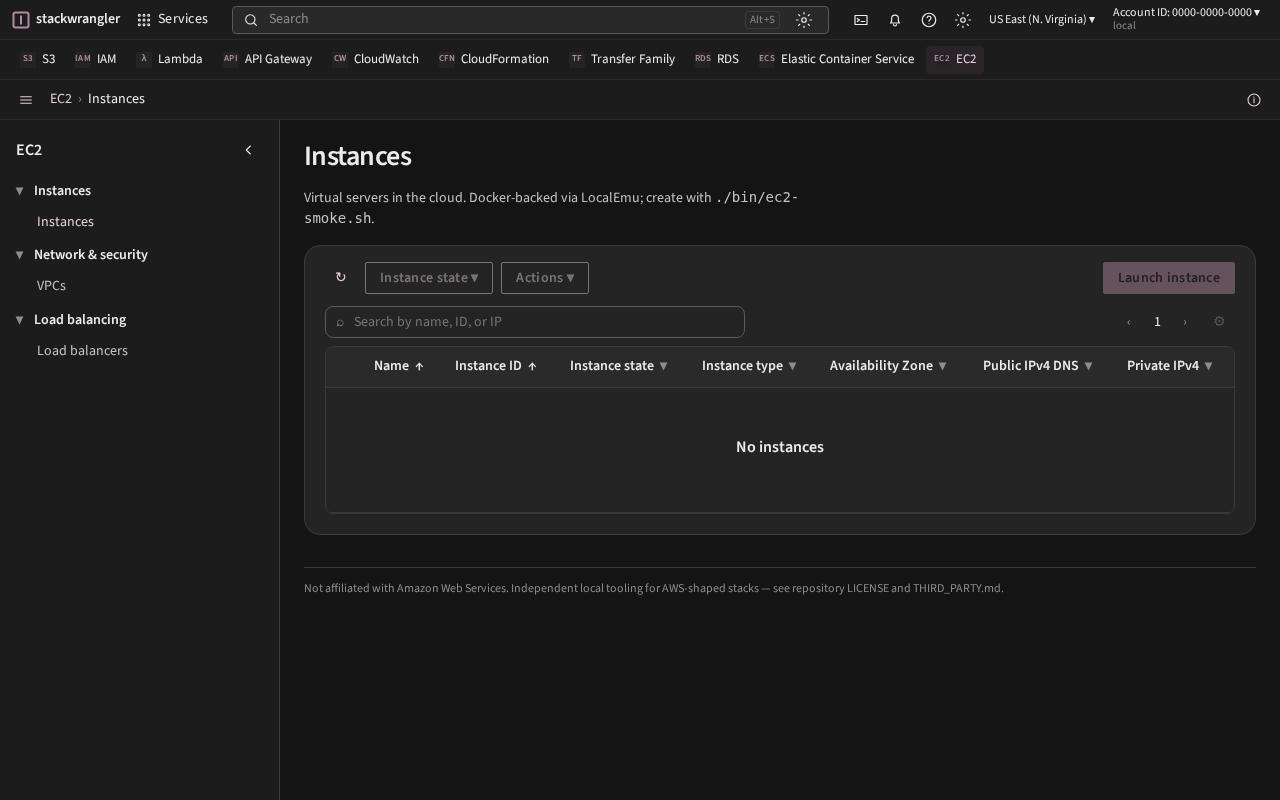
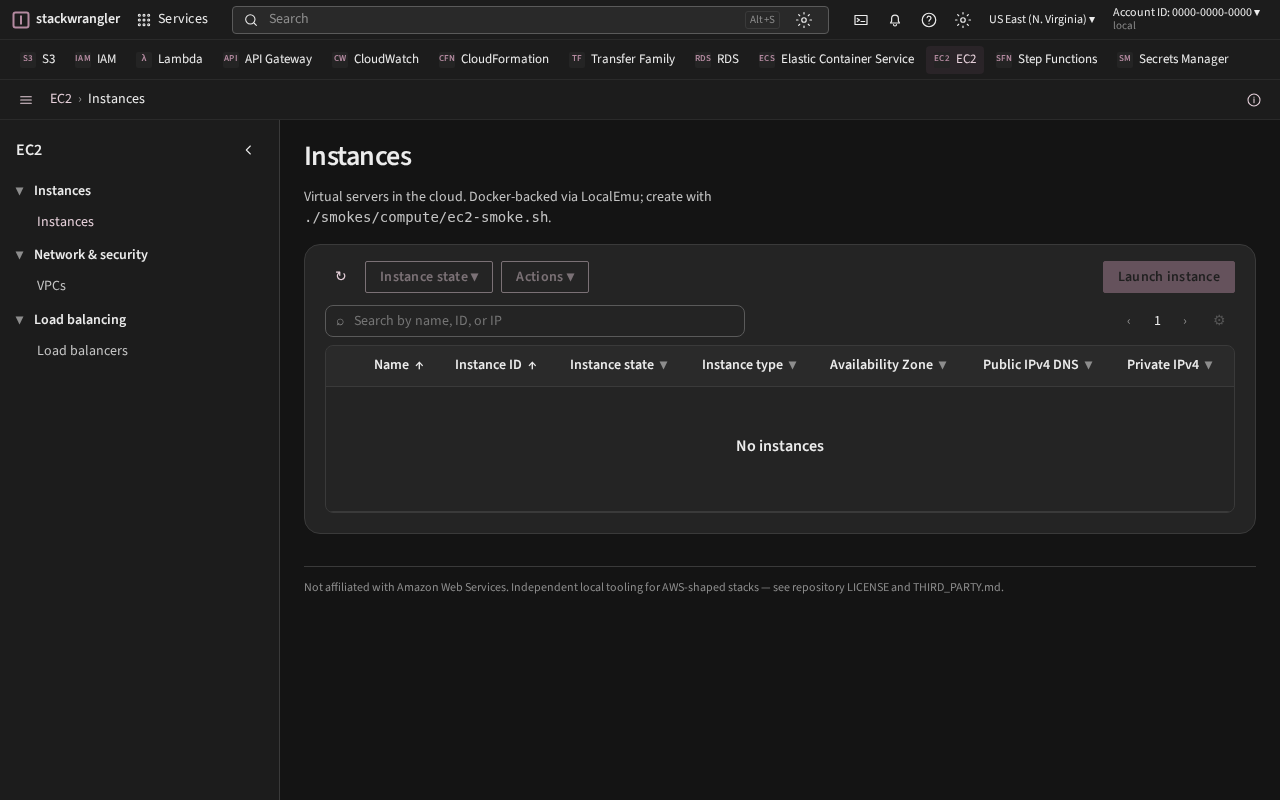
Ship thin Secrets Manager console list against LocalEmu.

diff --git a/console/src/pages/SecretsPage.tsx b/console/src/pages/SecretsPage.tsx
@@ -1,0 +1,131 @@
+import { useCallback, useEffect, useMemo, useState } from 'react'
+import type { SecretListEntry } from '@aws-sdk/client-secrets-manager'
+import { ResourceLabel } from '../components/ResourceLabel'
+import { DeadButton, RefreshButton } from '../components/S3Ui'
+import {
+  DeadLink,
+  EmptyRow,
+  FilterHeader,
+  ListCard,
+  Notices,
+  SelectCell,
+  SelectHeader,
+  SortHeader,
+} from '../components/ServiceUi'
+import { formatServiceDate } from '../lib/format'
+import { listSecrets } from '../lib/secrets'
+
+export function SecretsPage() {
+  const [secrets, setSecrets] = useState<SecretListEntry[]>([])
+  const [filter, setFilter] = useState('')
+  const [selected, setSelected] = useState<string | null>(null)
+  const [error, setError] = useState<string | null>(null)
+  const [loading, setLoading] = useState(true)
+
+  const refresh = useCallback(async () => {
+    setLoading(true)
+    setError(null)
+    try {
+      const list = await listSecrets()
+      setSecrets(list)
+      setSelected((prev) =>
+        prev && list.some((s) => (s.ARN ?? s.Name) === prev) ? prev : null,
+      )
+    } catch (err) {
+      setError(err instanceof Error ? err.message : String(err))
+    } finally {
+      setLoading(false)
+    }
+  }, [])
+
+  useEffect(() => {
+    void refresh()
+  }, [refresh])
+
+  const filtered = useMemo(() => {
+    const q = filter.trim().toLowerCase()
+    if (!q) return secrets
+    return secrets.filter(
+      (s) =>
+        (s.Name ?? '').toLowerCase().includes(q) ||
+        (s.Description ?? '').toLowerCase().includes(q) ||
+        (s.ARN ?? '').toLowerCase().includes(q),
+    )
+  }, [secrets, filter])
+
+  function toggle(id: string) {
+    setSelected((cur) => (cur === id ? null : id))
+  }
+
+  return (
+    <ListCard
+      title="Secrets"
+      desc="Secrets Manager helps you manage, retrieve, and rotate database credentials, application credentials, OAuth tokens, API keys, and other secrets throughout their lifecycles."
+      notices={<Notices error={error} />}
+      toolbar={
+        <>
+          <RefreshButton onClick={() => void refresh()} />
+          <DeadButton>Delete</DeadButton>
+          <DeadButton>Rotate</DeadButton>
+          <div className="spacer" />
+          <DeadButton variant="primary">Store a new secret</DeadButton>
+        </>
+      }
+      placeholder="Filter secrets"
+      filter={filter}
+      onFilter={setFilter}
+    >
+      <table className="aws-table" data-testid="secrets-table">
+        <thead>
+          <tr>
+            <SelectHeader />
+            <SortHeader>Name</SortHeader>
+            <FilterHeader>Description</FilterHeader>
+            <FilterHeader>Last retrieved</FilterHeader>
+            <SortHeader>Created on</SortHeader>
+          </tr>
+        </thead>
+        <tbody>
+          {filtered.length === 0 ? (
+            <EmptyRow
+              colSpan={5}
+              loading={loading}
+              loadingText="Loading secrets…"
+              title="No secrets"
+              text="You do not have any secrets in this region."
+            />
+          ) : (
+            filtered.map((s) => {
+              const arn = s.ARN ?? ''
+              const name = s.Name ?? arn
+              const id = arn || name
+              const isSelected = selected === id
+              return (
+                <tr
+                  key={id}
+                  className={`selectable${isSelected ? ' selected' : ''}`}
+                  onClick={() => toggle(id)}
+                >
+                  <SelectCell
+                    name="selected-secret"
+                    id={id}
+                    selected={isSelected}
+                    onToggle={toggle}
+                  />
+                  <td>
+                    <ResourceLabel ids={[name, arn]} detail={isSelected}>
+                      <DeadLink>{name}</DeadLink>
+                    </ResourceLabel>
+                  </td>
+                  <td>{s.Description?.trim() ? s.Description : '—'}</td>
+                  <td>{formatServiceDate(s.LastAccessedDate)}</td>
+                  <td>{formatServiceDate(s.CreatedDate)}</td>
+                </tr>
+              )
+            })
+          )}
+        </tbody>
+      </table>
+    </ListCard>
+  )
+}

diff --git a/console/e2e/secrets-list.spec.ts b/console/e2e/secrets-list.spec.ts
@@ -1,0 +1,79 @@
+import { expect, test } from '@playwright/test'
+import { execFileSync } from 'node:child_process'
+import { e2eCreds } from './helpers/env'
+
+const EP = e2eCreds.iamEndpoint
+const KEY = e2eCreds.accessKey
+const SECRET = e2eCreds.secretKey
+const REGION = e2eCreds.region
+
+function aws(args: string[]): string {
+  return execFileSync(
+    'aws',
+    ['--endpoint-url', EP, '--region', REGION, ...args],
+    {
+      encoding: 'utf8',
+      env: {
+        ...process.env,
+        AWS_ACCESS_KEY_ID: KEY,
+        AWS_SECRET_ACCESS_KEY: SECRET,
+        AWS_DEFAULT_REGION: REGION,
+      },
+    },
+  )
+}
+
+test.describe('Secrets Manager secrets UI (#176)', () => {
+  test('lists a seeded secret', async ({ page }) => {
+    const ts = Date.now()
+    const name = `e2e/secrets-ui-${ts}`
+    let arn = ''
+    try {
+      arn = aws([
+        'secretsmanager',
+        'create-secret',
+        '--name',
+        name,
+        '--description',
+        'e2e secrets console',
+        '--secret-string',
+        `e2e-${ts}`,
+        '--query',
+        'ARN',
+        '--output',
+        'text',
+      ]).trim()
+
+      await page.goto('/secretsmanager')
+      await expect(
+        page.getByRole('heading', { level: 1, name: 'Secrets' }),
+      ).toBeVisible()
+      await expect(page.getByTestId('secrets-table')).toBeVisible()
+      await expect(
+        page.getByRole('button', { name, exact: true }),
+      ).toBeVisible({ timeout: 15000 })
+      await expect(
+        page.getByRole('button', { name: 'Store a new secret' }),
+      ).toBeDisabled()
+      await expect(
+        page.getByRole('button', { name: 'Store a new secret' }),
+      ).toHaveAttribute('title', 'To implement')
+      await expect(page.getByRole('button', { name: 'Delete' })).toBeDisabled()
+      await expect(page.getByRole('button', { name: 'Rotate' })).toBeDisabled()
+    } finally {
+      if (arn) {
+        try {
+          aws([
+            'secretsmanager',
+            'delete-secret',
+            '--secret-id',
+            arn,
+            '--force-delete-without-recovery',
+          ])
+        } catch {
+          /* ignore */
+        }
+      }
+    }
+  })
+})

diff --git a/console/src/lib/services.ts b/console/src/lib/services.ts
@@ -10,6 +10,7 @@ export type AppId =
   | 'ecs'
   | 'ec2'
   | 'sfn'
+  | 'secretsmanager'
 
 export type ServiceDef = {
   id: AppId
@@ -37,6 +38,13 @@ export const SERVICES: ServiceDef[] = [
     desc: 'Coordinate distributed applications',
     to: '/stepfunctions',
   },
+  {
+    id: 'secretsmanager',
+    abbr: 'SM',
+    name: 'Secrets Manager',
+    desc: 'Manage secrets and credentials',
+    to: '/secretsmanager',
+  },
 ]
 
 export function currentApp(pathname: string): AppId {
@@ -50,6 +58,7 @@ export function currentApp(pathname: string): AppId {
   if (pathname.startsWith('/ecs')) return 'ecs'
   if (pathname.startsWith('/ec2')) return 'ec2'
   if (pathname.startsWith('/stepfunctions')) return 'sfn'
+  if (pathname.startsWith('/secretsmanager')) return 'secretsmanager'
   return 's3'
 }
 
@@ -77,6 +86,7 @@ export const SEARCH_INDEX: SearchItem[] = [
   { type: 'Feature', label: 'IAM Users', to: '/iam' },
   { type: 'Feature', label: 'Lambda Functions', to: '/lambda' },
   { type: 'Feature', label: 'State machines', to: '/stepfunctions' },
+  { type: 'Feature', label: 'Secrets', to: '/secretsmanager' },
   { type: 'Feature', label: 'Log groups', to: '/logs' },
   { type: 'Feature', label: 'HTTP APIs', to: '/apigateway' },
   { type: 'Feature', label: 'Stacks', to: '/cloudformation' },
@@ -107,6 +117,7 @@ const CRUMBS: Record<string, string> = {
   '/lambda/create': 'Create function',
   '/logs': 'Log groups',
   '/stepfunctions': 'State machines',
+  '/secretsmanager': 'Secrets',
   '/apigateway': 'HTTP APIs',
   '/cloudformation': 'Stacks',
   '/transfer': 'Servers',

diff --git a/console/src/App.tsx b/console/src/App.tsx
@@ -9,6 +9,7 @@ import { LambdaFunctionDetailPage } from './pages/LambdaFunctionDetailPage'
 import { LambdaFunctionsPage } from './pages/LambdaFunctionsPage'
 import { LogsPage } from './pages/LogsPage'
 import { StepFunctionsPage } from './pages/StepFunctionsPage'
+import { SecretsPage } from './pages/SecretsPage'
 import { AccessAnalyzerPage } from './pages/AccessAnalyzerPage'
 import { AccountSettingsPage } from './pages/AccountSettingsPage'
 import { FileSystemsPage } from './pages/FileSystemsPage'
@@ -40,6 +41,7 @@ export default function App() {
           />
           <Route path="logs" element={<LogsPage />} />
           <Route path="stepfunctions" element={<StepFunctionsPage />} />
+          <Route path="secretsmanager" element={<SecretsPage />} />
           <Route path="apigateway" element={<ApiGatewayPage />} />
           <Route path="cloudformation" element={<CloudFormationStacksPage />} />
           <Route

diff --git a/console/src/lib/secrets.ts b/console/src/lib/secrets.ts
@@ -1,0 +1,19 @@
+import {
+  ListSecretsCommand,
+  SecretsManagerClient,
+  type SecretListEntry,
+} from '@aws-sdk/client-secrets-manager'
+import { emuCreds } from './emu'
+
+function secretsClient(): SecretsManagerClient {
+  return new SecretsManagerClient(emuCreds())
+}
+
+export async function listSecrets(): Promise<SecretListEntry[]> {
+  const out = await secretsClient().send(
+    new ListSecretsCommand({ MaxResults: 100 }),
+  )
+  return out.SecretList ?? []
+}
+
+export type { SecretListEntry }

diff --git a/console/src/components/Shell.tsx b/console/src/components/Shell.tsx
@@ -196,6 +196,22 @@ const SIDEBARS: Record<AppId, SidebarDef> = {
       },
     ],
   },
+  secretsmanager: {
+    title: 'Secrets Manager',
+    sections: [
+      {
+        id: 'secrets-main',
+        label: 'Secrets',
+        items: [
+          {
+            label: 'Secrets',
+            to: '/secretsmanager',
+            active: under('/secretsmanager'),
+          },
+        ],
+      },
+    ],
+  },
   apigw: {
     title: 'API Gateway',
     sections: [

diff --git a/console/e2e/docs/capture.spec.ts b/console/e2e/docs/capture.spec.ts
@@ -71,6 +71,14 @@ test.describe('docs-capture', () => {
     })
   })
 
+  test('secrets manager secrets list', async ({ page }) => {
+    await shot(page, 'secrets-list.png', '/secretsmanager', async () => {
+      await expect(
+        page.getByRole('heading', { level: 1, name: 'Secrets' }),
+      ).toBeVisible({ timeout: 30_000 })
+    })
+  })
+
   test('specialty buckets empty chrome', async ({ page }) => {
     await shot(
       page,

diff --git a/console/e2e/services-chrome.spec.ts b/console/e2e/services-chrome.spec.ts
@@ -31,6 +31,12 @@ const lists: Array<{
     disabled: ['Actions ▾', 'Create state machine'],
   },
   {
+    path: '/secretsmanager',
+    heading: 'Secrets',
+    columns: ['Name', 'Description', 'Last retrieved', 'Created on'],
+    disabled: ['Delete', 'Rotate', 'Store a new secret'],
+  },
+  {
     path: '/apigateway',
     heading: 'APIs',
     columns: ['Name', 'API ID', 'Created date', 'Endpoint'],

diff --git a/docs/smoke-matrix.md b/docs/smoke-matrix.md
@@ -56,7 +56,7 @@ Scripts live in `smokes/<area>/` ([smokes.md](smokes.md)). Call them as `./smoke
 | DynamoDB | yes | **yes** | — | no → [#174](https://github.com/kgz/awsl/issues/174) | `dynamodb-smoke.sh`, `dynamodb-authz-smoke.sh` |
 | DynamoDB depth (GSI, conditions, UpdateItem, transactions, TTL) | yes (CFN slice `serverless-v3-rest/slices/ddb`) | **yes** (Allow on index ARN / table ARN only, Deny on index; Batch/Transact table-scoped [#306](https://github.com/kgz/awsl/issues/306)) | duplicate put, failed update condition, cancelled transaction; index `aws:ResourceTag` [#307](https://github.com/kgz/awsl/issues/307) | — | `dynamodb-depth-smoke.sh` |
 | Step Functions | yes | **yes** | — | thin list [#175](https://github.com/kgz/awsl/issues/175) · create/detail [#533](https://github.com/kgz/awsl/issues/533) | `sfn-smoke.sh`, `sfn-authz-smoke.sh` · console e2e `sfn-state-machines.spec.ts` |
-| Secrets Manager | yes | **yes** | — | no → [#176](https://github.com/kgz/awsl/issues/176) | `secrets-smoke.sh`, `secrets-authz-smoke.sh` |
+| Secrets Manager | yes | **yes** | — | thin list [#176](https://github.com/kgz/awsl/issues/176) · store/detail [#535](https://github.com/kgz/awsl/issues/535) | `secrets-smoke.sh`, `secrets-authz-smoke.sh` · console e2e `secrets-list.spec.ts` |
 | KMS | yes | **yes** | — | no → [#177](https://github.com/kgz/awsl/issues/177) | `kms-smoke.sh`, `kms-authz-smoke.sh` |
 | Resource policies (SM, KMS, S3) | yes (delegation allows) | **yes** (explicit deny / no key-policy delegation) | cross-account [#233](https://github.com/kgz/awsl/issues/233) | — | `resource-policy-smoke.sh` |
 | Kinesis | yes | **yes** | — | no → [#178](https://github.com/kgz/awsl/issues/178) | `kinesis-smoke.sh`, `kinesis-authz-smoke.sh` |

diff --git a/docs/status.md b/docs/status.md
@@ -111,7 +111,7 @@ Smoke: `./smokes/messaging/sqs-smoke.sh` · `./smokes/messaging/sns-smoke.sh` ·
 | IAM OIDC / web identity | `AssumeRoleWithWebIdentity` checks a local JWKS; trust `StringEquals`/`StringLike` on `<issuer>:sub` and `:aud`. `repo:org/*` matches every repo in the org (risky). `iam:PassRole` is limited by `iam:PassedToService` | — | **CLI + smoke** · [oidc.md](oidc.md) · service-origin `kms:ViaService` / `aws:SourceArn` [#223](https://github.com/kgz/awsl/issues/223) |
 | STS | Enabled | — | **Control plane** (polish backlog) |
 | KMS | encrypt/decrypt · key policy on Encrypt/Decrypt/GenerateDataKey | — | **Partial** · key policy `./smokes/security/resource-policy-smoke.sh` · console [#177](https://github.com/kgz/awsl/issues/177) |
-| Secrets Manager | create/get · resource policy on Get/Describe | — | **Partial** · resource policy `./smokes/security/resource-policy-smoke.sh` · console [#176](https://github.com/kgz/awsl/issues/176) |
+| Secrets Manager | create/get · resource policy on Get/Describe | list (+ empty) | **Partial** · resource policy `./smokes/security/resource-policy-smoke.sh` · thin console list [#176](https://github.com/kgz/awsl/issues/176) · store/detail [#535](https://github.com/kgz/awsl/issues/535) |
 | Multiple accounts | Key→account, isolated state, cross-account AssumeRole | — | **CLI + smoke** · [multi-account.md](multi-account.md) |
 | ACM | request / import / describe / list · ARN on API custom domain + ALB HTTPS listener ([acm.md](acm.md)) | — ([#333](https://github.com/kgz/awsl/issues/333)) | **Partial** · TLS handshake [#242](https://github.com/kgz/awsl/issues/242) |
 | Cognito / detection | — | — | **Backlog** |

diff --git a/docs-site/guide/completeness.md b/docs-site/guide/completeness.md
@@ -78,7 +78,7 @@ What you can actually exercise after `./bin/stackwrangler up` (happy path). Cave
 | VPC / SG / ELBv2 / Route 53 (public + private) | **Partial** with smokes |
 | WAFv2 (API GW associate; not real edge WAF) | **Partial** thin |
 | API Gateway HTTP + REST | **Partial** |
-| KMS / Secrets Manager / ACM | **Partial** |
+| KMS / Secrets Manager / ACM | **Partial** · Secrets thin list [#176](https://github.com/kgz/awsl/issues/176); store/detail [#535](https://github.com/kgz/awsl/issues/535) |
 | Multi-account + OIDC assume | **CLI + smoke** |
 
 ### IaC against the same account

diff --git a/docs/console-shots.md b/docs/console-shots.md
@@ -12,5 +12,6 @@ PNG paths are under `docs/assets/console/` (docs-site serves them via `public/as
 | `ecs-clusters.png` | `/ecs` | List page |
 | `ec2-instances.png` | `/ec2` | List page |
 | `sfn-state-machines.png` | `/stepfunctions` | Optional: seed via `sfn-smoke.sh` / e2e create; empty OK |
+| `secrets-list.png` | `/secretsmanager` | Optional: seed via `secrets-smoke.sh` / e2e create; empty OK |
 
 No seed for a new shot → file **Doc:**; do not invent images or use `design/**/refs/` AWS recon PNGs.
